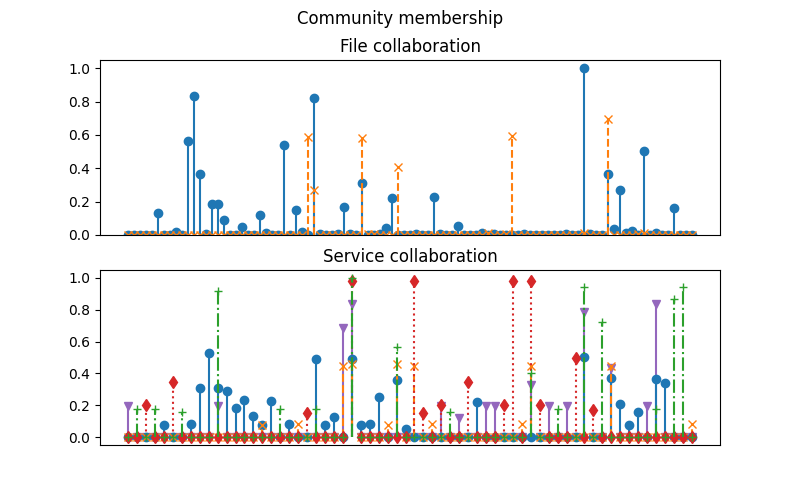
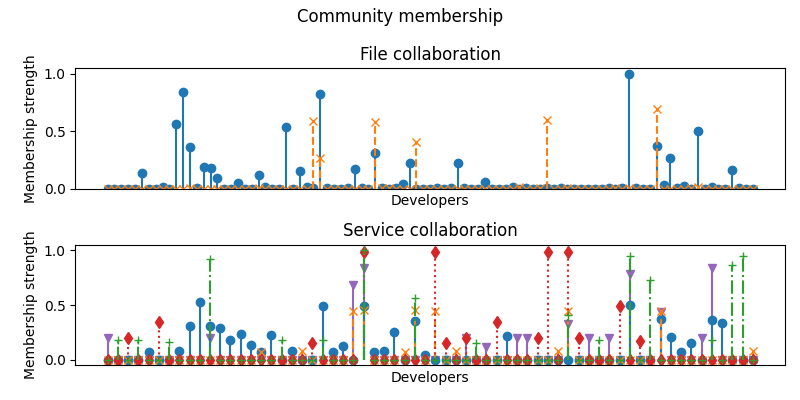
add: tight layout and axis labels

diff --git a/community_structure.py b/community_structure.py
@@ -12,7 +12,7 @@ file_comms = file_comms / np.max(file_comms, axis=None)
 service_comms = service_data['in_communities']
 service_comms = service_comms / np.max(service_comms, axis=None)
 
-fig, axes = plt.subplots(2,1, figsize=(8,5))
+fig, axes = plt.subplots(2,1, figsize=(8,4))
 plt.subplot(211)
 markerline, stemlines, baseline = plt.stem(file_comms[:, 0], linefmt='-', markerfmt='o')
 plt.setp(markerline, 'color', '#1f77b4')
@@ -24,7 +24,9 @@ plt.setp(stemlines, 'color', '#ff7f0e')
 plt.setp(baseline, 'color', 'none')
 plt.title('File collaboration')
 plt.ylim([0.0, 1.05])
-plt.gca().get_xaxis().set_visible(False)
+plt.xticks([],[])
+plt.xlabel('Developers')
+plt.ylabel('Membership strength')
 
 plt.subplot(212)
 markerline, stemlines, baseline = plt.stem(service_comms[:, 4], linefmt='-', markerfmt='v')
@@ -48,9 +50,12 @@ plt.setp(markerline, 'color', '#2ca02c')
 plt.setp(stemlines, 'color', '#2ca02c')
 plt.setp(baseline, 'color', 'none')
 plt.title('Service collaboration')
-plt.gca().get_xaxis().set_visible(False)
+plt.xticks([],[])
+plt.xlabel('Developers')
+plt.ylabel('Membership strength')
 
 fig.suptitle('Community membership')
 
+plt.tight_layout()
 plt.savefig('communities.png')
 plt.show()
